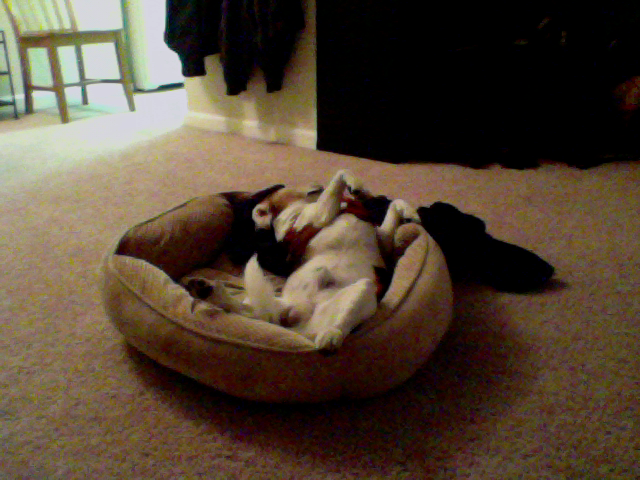
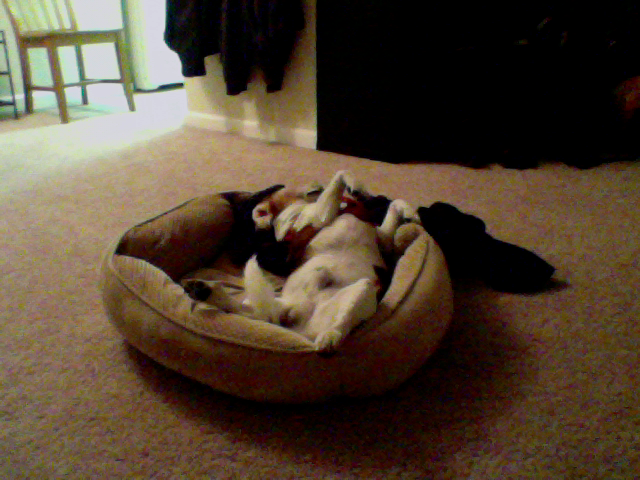
update at Month05Day07Time20:37

diff --git a/index.html b/index.html
@@ -39,8 +39,8 @@
       <!-- Example row of columns -->
       <div class="row">
         <div class="col-md-4">
-	<p>This picture was updated at Month05Day07Time20:36</p>
-		<img src="1_pic.png" />
+	<p>This picture was updated at Month05Day07Time20:37</p>
+		<img src="4_pic.png" />
         </div>
       </div>
 
